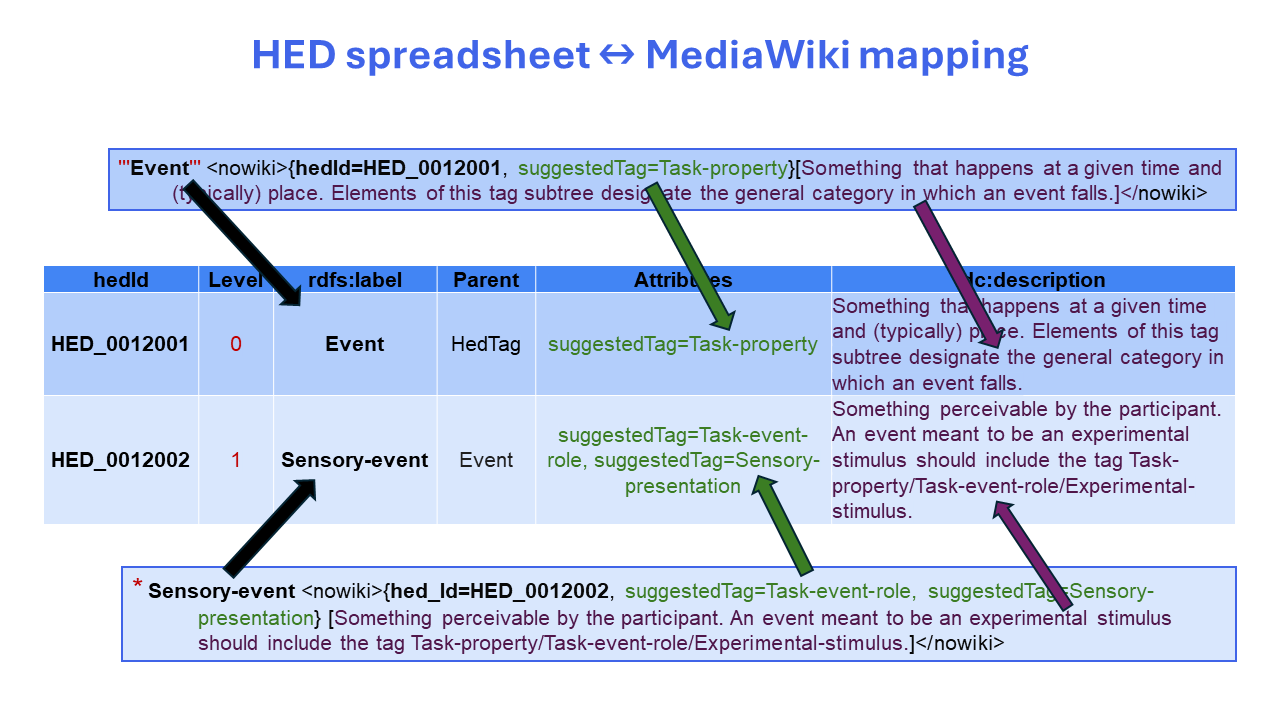
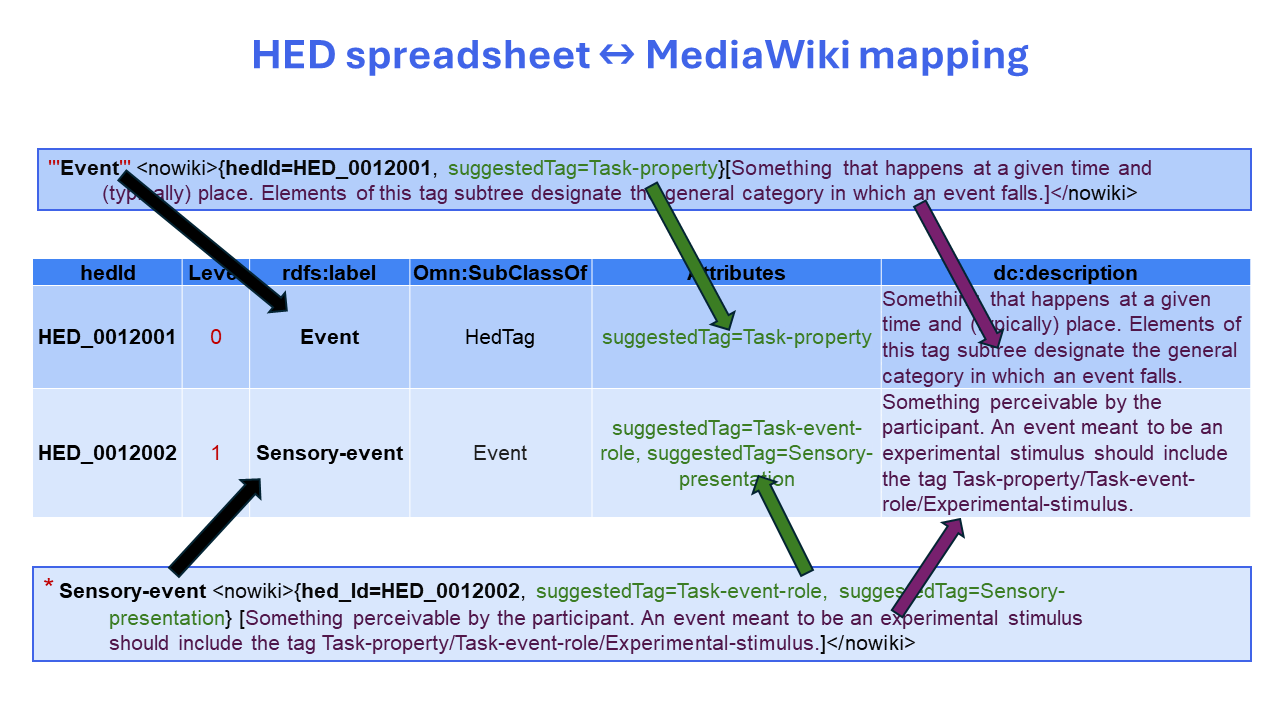
Completed first draft of HED ontology specification

Changed region(s): [[0.0, 0.1833, 1.0, 0.9167], [0.9375, 0.7944, 1.0, 0.9167], [0.2188, 0.4583, 0.3125, 0.4889]]

diff --git a/docs/source/08_HED_ontology.md b/docs/source/08_HED_ontology.md
@@ -6,11 +6,11 @@ This chapter defines the HED ontology and explains the relationship
 between the HED ontology and the HED schema.
 
 The `hed:` prefix is the abbreviation for HED's 
-[**IRI**](https://datatracker.ietf.org/doc/html/rfc3987)(International Resource Identifier) prefix.
+[**IRI**](https://datatracker.ietf.org/doc/html/rfc3987) (International Resource Identifier) prefix.
 Terms with this prefix are associated with a particular schema -- either the standard schema or a library schema.
 Terms with the `heds:` prefix are structural elements common to all HED schemas.
 Both the `hed:` and `heds:` namespaces map to the same PURL (Persistent Uniform Resource Locator)
-as explained in [**8.3 HED global identifiers**](./#83-global-identifiers).
+as explained in [**8.3 HED global identifiers**](#83-hed-global-identifiers).
 
 Terms with the `rdfs:` prefix are from the 
 [**RDF Schema**](https://en.wikipedia.org/wiki/RDF_Schema) (i.e., the Resource Description Framework Schema).
@@ -47,7 +47,7 @@ A second view of HED --- the HED ontology --- provides a mapping between HED sch
 ontologies in order to support semantic analysis and reasoning. 
 
 The following diagram shows the ontology view of HED. 
-The nodes of the HED schema are embedded in the ontology,
+The nodes of the HED schema are embedded in the HED ontology,
 but the view is "term-centric" or "bottom-up" with links from the given term to its
 parent class (yellow arrows) and as well links between the given term and other terms (gray arrows).
 
@@ -92,6 +92,12 @@ Tools access the HED schema in its XML format, but schema developers create
 and update the schema in MediaWiki format, which is easier to read and displays as formatted
 MarkDown on GitHub.
 
+The HED ontology represents the entire HED information space in 
+[**OWL**](https://www.w3.org/OWL/) (Web Ontology Language).
+The HED ontology is available in both [**OWL/RDF**](https://www.w3.org/TR/owl2-mapping-to-rdf/) format
+and [**OWL Manchester**](https://www.w3.org/TR/owl2-manchester-syntax/) format
+but the examples in this specification use OWL Manchester format for readability.
+
 #### 8.1.4.1. Spreadsheet <--> Mediawiki
 
 The HED schema also has a HED spreadsheet representation 
@@ -109,10 +115,10 @@ following table:
 | Spreadsheet<br/>column | Row value | MediaWiki format |
 | ----------- |:------------------:| ------- |
 | **hedId**  | *xxx* | {hedId=*xxx*, ... other attributes in comma separated list} |
-| **level**  | 0 | This row corresponds to a top-level HED tag. Example:  `'''tag'''`.  |  
-| **Level**  | *n* | For level *n* > 0, *n* asterisks appear in front of `tag`.<br/>Example: `* tag` when *n* = 1. Example: `** tag` when *n*=2. |
+| **Level**  | 0 | This row corresponds to a top-level HED tag. **EX:**  `'''tag'''`.  |  
+| **Level**  | *n* | For level *n* > 0, *n* asterisks appear in front of `tag`.<br/>Example: `* tag` when *n* = 1. **EX:** `** tag` when *n*=2. |
 | **rdfs:label**  | *yyy* | The tag's unique name is *yyy*. |
-| **Parent** | *zzz* | The tag's parent tag in the HED hierarchy is *zzz*. |
+| **omn:SubClassOf** | *zzz* | The tag's parent tag in the HED hierarchy is *zzz*. |
 | **Attributes** | *uuu*, *vvv*, ... | List appearing in curly braces: {hedId=*xxx*, *uuu*, *vvv*, ...} |
 | **dc:description** | *www* | The contents of the square braces: [*www*]. |
 
@@ -126,10 +132,19 @@ Tools will assign and validate the `hedId` during the update process.
 
 HED spreadsheets have been expanded to include additional columns to capture all the information 
 contained in the HED ontology as illustrated in the following example.
+Notice that while the spreadsheet always refers to the entities by name (e.g., `rdfs:label`),
+the ontology uses the `hedId`.
 
 ![hed representations](_static/images/HedRepresentations.png)
 
-The mapping of the spreadsheet row and column values to a line in the HED ontology is further explained in the
+Most HED entities (i.e., tags, unit classes, units, unit modifiers, and value classes) map to 
+classes in the HED ontology.
+The HED schema attributes, which describe properties and behavior, are mapped to ontology properties
+as described in [**8.2.3. Schema attributes**](#823-schema-attributes) section.
+The HED schema properties, which describe the schema attributes, determine the type of property mapping
+and are implicitly mapped.
+
+The mapping of the spreadsheet row and column values to a class in the HED ontology is further explained in the
 following table:
 
 
@@ -138,12 +153,13 @@ following table:
 | **hedId**  | *xxx* | `Class: hed:xxx` |
 | **Level**  | *n* | Redundant information -- can be recovered using class hierarchy. |
 | **rdfs:label**  | *yyy* | `rdfs:label yyy` in the `Annotations` section |
-| **Parent** | *zzz* | The tag is either a `SubClassOf` or `EquivalentTo` *zzz*<br/>but *zzz* is identified in the ontology<br/>by **hedId** rather name. |
+| **omn:SubClassOf** | *zzz* | The tag is either a `SubClassOf` or `EquivalentTo` *zzz*<br/>but *zzz* is identified in the ontology<br/>by **hedId** rather name. |
 | **Attributes** | *uuu*, *vvv*, ... | If non-empty, then these appear as restrictions<br/> in the `EquivalentTo`. See [**8.2.3. Schema attributes**|(./#823-schema-attributes). |
 | **dc:description** | *www* | `dc:description www` in the `Annotations` section. |
-|**EquivalentTo** |    | A combination of the information in **Parent** and **Attributes**. |
+|**omn:EquivalentTo** |    | A combination of the information in **omn:SubClassOf** and **Attributes**. |
 
 The next section describes the ontology structure in more detail.
+
 
 ## 8.2. HED schema to ontology
 
@@ -165,25 +181,65 @@ The HED requirement of orthogonality between tags in different top-level subtree
 can be captured in the HED ontology by imposing *disjointness* on the top-level trees,
 but this is not currently being enforced.
 
+The following table summarizes how the HED schema and HED ontology are mapped.
 
-| Schema | Ontology |
-| ------ | -------- |
-| Header | Class with `DataProperty` values for `version`, `library`, `withStandard`, and `merged`. |
-| Tag    | Class using subclassing to represent schema structure.<br/>The parent class appears either in `SubClassOf` or `EquivalentTo`. |
-| Unit class | Class inheriting from `StandardUnitClass` (`HED_0010006`)<br/>if defined in the standard schema. |
-| Unit  | Class inheriting from `StandardUnit` (`HED_0010007`)<br/>if defined in the standard schema.<br/>The class must have `hasUnitClass` some unit class. |
-| Unit modifier | Class inheriting from `StandardUnitModifier` (`HED_0010008`)<br/>if defined in the standard schema. |
-| Value class | Class inheriting from `StandardValueClass` (`HED_0010009`)<br/>if defined in the standard schema. |
-| Attribute | `ObjectProperty`, `DataProperty`, or `AnnotationProperty` depending on range and inheritability.<br>Attributes are defined in the structure ontology. |
-| Property | Implicitly captured in the domains and ranges of the attributes. |
+`````{list-table} HED ontology structure.
+:widths: 15 75
+:header-rows: 1
 
+* - Schema
+  - Ontology
+* - **Header**
+  - Class with `DataProperty` values for:
+    * `version` - (required) semantic version of schema.
+    * `library` - (optional) library name if library.
+    * `withStandard` - (optional) semantic version of library's standard partner).
+    * `merged`- (optional) library has been merged with its standard schema partner.
+* - **Tag**
+  - * Defined in the `schema` section of the HED schema.
+    * Uses subclassing to represent HED schema structure.
+    * Top-level tags extend `HedTag` (`heds:HED_0000005`).
+    * A rooted library tag extends its root in the standard schema.
+    * The parent class appears either in `SubClassOf` or `EquivalentTo`.
+* - **Unit class**
+  - Defined in the `Unit classes` section of the HED schema.
+    * Usually only defined in the standard schema.
+    * Defining schema must define a class extending `HedUnitClass` (`heds:HED_0000006`).
+    * Unit classes in the standard schema are subclasses of `StandardUnitClass` (`hed:HED_0010006`).
+* - **Unit**
+  - * Defined in the `Unit classes` section of HED schema under its unit class.
+    * Usually only defined in the standard schema.
+    * Defining schemas must define a class extending `HedUnit` (`heds:HED_0000007`).
+    * Units in the standard schema are subclasses of `StandardUnit` (`hed:HED_0010007`).
+    * The class must have the `hasUnitClass` (`heds:HED_0000103`) `ObjectProperty`.
+* - **Unit modifier**
+  - * Defined in the `Unit Modifiers` section of the HED schema.
+    * Usually only defined in the standard schema
+    * Defining schemas must define a class extending `HedUnitModifier` (`heds:HED_0000008`).
+    * Unit modifers in the standard schema inherit from `StandardUnitModifier` (`HED_0010008`).
+* - **Value class** 
+  - * Defined in the `Value classes` section of the HED schema.
+    * Usually only defined in the standard schema.
+    * Defining schemas must define a class extending `HedValueClass` (`heds:HED_0000009).
+    * Value classes in the standard schema inherit from `StandardValueClass` (`hed:HED_0010009`).
+* - **Schema attribute**
+  - Maps as a property in the HED ontology:
+    * `ObjectProperty` if `Range` is a class and it is inherited (no `AnnotationProperty`).
+    * `DataProperty` if `Range` is a literal (boolean, numeric, or string) and it is inherited.
+    * `AnnotationProperty` if not inherited.
+* - **Schema property**
+  - * Defined in the `Properties` section of the HED schema.
+    * Property names ending in `Domain` specify classes the attribute can be applied to.
+    * Property names ending in `Range` specify values the property can have.
+    * The `AnnotationProperty` indicates that this schema attribute is not inherited.
+    * Implicitly present in the HED ontology.
+
+`````     
 
 ### 8.2.2. HED Tags
 
-A HED tag is represented in the HED ontology by the `HedTag` class (HED_0000005).
-
 The HED schema hierarchy is captured by subclassing in the HED ontology.
-Top-level tag nodes in the HED schema are direct subclasses of `HedTag`.
+Top-level tag nodes in the HED schema are direct subclasses of the `HedTag` class (`heds:HED_0000005`).
 A descendent of a top-level tag node is a direct subclass of its parent tag node in the HED schema.
 The ontology subclass relationship enforces the HED requirement that each tag in the
 HED schema must satisfy the **is-a** relationship with its parent in the HED schema.
@@ -193,11 +249,11 @@ to illustrate how subclassing is represented in the various HED formats.
 
 #### 8.2.2.1. Mediawiki tag format
 
-The **MediaWiki** representation of a HED tag uses asterisks to mark parentage relationships.
-The parent of a tag prefixed by *X* number of asterisks is the first tag
+The **MediaWiki** representation uses ordering and asterisks to mark parentage relationships.
+In other words, the HED Wikimedia schema tree is given in depth-first search order.
+The parent of a tag prefixed by *X* number of asterisks is a direct child of the first tag
 above it with *X-1* asterisks.
 Top level tags are enclosed by three quotes and have no parent within the schema (i.e., *X* = 0).
-Each top-level tag is the root of a tree of tags that are orthogonal to tags in other trees.
 
 For the example, the `Action` tag is a top-level tag (enclosed in a set of three quotes).
 The `Communicate` tag is a child (subclass) of `Action`.
@@ -206,9 +262,14 @@ The `Communicate` tag is a child (subclass) of `Action`.
 ````{admonition} **Example** HED MediaWiki representation of subclasses.
 
 ```text
-'''Action''' <nowiki>{extensionAllowed, hedId=HED_0012016}[Do something.]</nowiki>
+'''Action''' <nowiki>{hedId=HED_0012016}[Do something.]</nowiki>
 * Communicate <nowiki>{hedId=HED_0012017}[Action conveying knowledge of or about something.]</nowiki>
 ```
+
+In this example `Action` is level 0 (top-level) and `Communicate` is level 1. 
+Mediawiki uses ordering to determine subclasses. 
+Since `Action` is the closest preceding tag whose level is one less than
+that of `Communicate`, so `Action` is the parent tag of `Communicate`.
 
 ````
 The tag's schema attributes are enclosed in curly braces, 
@@ -244,9 +305,9 @@ nesting indicates organizational grouping rather than subclasses.
    </node>
 </node>
 ```
-````
 `Communicate` tag is a subclass (**is-a**) of `Action` because
 its `<node></node>` definition is nested within the  `<node></node>` definition of `Action`.
+````
 
 
 #### 8.2.2.3. OWL format for HED classes
@@ -274,7 +335,7 @@ Class: hed:HED_0012016
     EquivalentTo: 
         heds:HED_0000005
         and (heds:HED_0000102 some hed:HED_0010004)
-        and (heds:HED_0000307 value "true")
+        and (heds:HED_0010307 value "true")
     
 Class: hed:HED_0012017
     Annotations: 
@@ -284,24 +345,24 @@ Class: hed:HED_0012017
     SubClassOf: 
         hed:HED_0012016
 ```
-````
 
-The `Action`  (HED_0012016) class is a top level schema tag and therefore a subclass of `HedTag` (HED_0000005).
+
+The `Action` (`hed:HED_0012016`) class is a top level schema tag and 
+therefore a subclass of `HedTag` (`heds:HED_0000005`).
 The parentage relationship is represented by `EquivalentTo` rather than `SubClassOf`
-because `Action` has the `extensionAllowed` (HED_0000307) data property.
-and the `inHedSchema` (HED_0000102) object property.
-Here `HED_0010004` is the `HedStandardSchema` class, which has
- `version` (HED_0000307) data property value 8.3.0.
-The `HedStandardSchema` class has been declared elsewhere in the ontology.
+because `Action` has the `extensionAllowed` (`hed:HED_0010307`) data property.
+and the `inHedSchema` (`heds:HED_0000102`) object property.
+Here `hed:HED_0010004` is the `HedStandardSchema` class, which has been declared elsewhere in the ontology.
 
-The `Communicate` HED tag (HED_0012017) is a direct child of `Action` as indicated by the `SubClassOf` entry.
+The `Communicate` HED tag (`hed:HED_0012017`) is a direct child of `Action` as indicated by the `SubClassOf` entry.
 Since `Communicate` is a subclass of `Action`, it inherits the `inHedSchema` association
 with the correct version of the standard schema.
-
+````
 
 ### 8.2.3. Schema attributes
 
-The purpose of HED schema attributes is to specify characteristics and/or behavior of schema elements.
+The purpose of HED schema attributes is to specify characteristics and/or behavior of HED schema elements,
+including tags, unit classes, units, unit modifiers, and value classes.
 These attributes map schema elements into values or into other schema elements.
 
 
@@ -317,13 +378,13 @@ The mapping strategy is summarized in the following table.
 | `DataProperty` | HED entity | string, numeric, boolean | Yes | 
 | `ObjectProperty` | HED entity | HED element | Yes | 
 
-`DataProperty` and `ObjectProperty` entities are inherited by subclasses, and reasoners can check their consistency.
-`AnnotationProperty` entities are not inherited by subclasses, and reasoners ignore them.
+`DataProperty` and `ObjectProperty` are inherited by subclasses, and reasoners can check their consistency.
+`AnnotationProperty` is not inherited by subclasses, and reasoners ignore them.
 
 #### 8.2.3.2. Attribute properties
 
 Schema attribute properties appear in the `Properties` section of a HED schema.
-They determine how schema attributes behave as described in the following table.
+Schema attribute properties determine how schema attributes behave and described in the following table.
 
 | Attribute name |   Description |  
 | -------------- | -------------- |
@@ -382,23 +443,30 @@ In the MediaWiki format, schema attributes appear in the `Schema Attributes` sec
 ````{admonition} **Example** HED MediaWiki representation of a schema attribute.
 
 ```text
-* extensionAllowed <nowiki>{tagDomain, boolRange}[Users can add unlimited levels of child nodes under this tag. This tag is propagated to child nodes with the exception of the hashtag placeholders.]</nowiki>
+* extensionAllowed <nowiki>{hedId=HED_0010307,tagDomain, boolRange}[Users can add unlimited levels of child nodes
+                            under this tag. This tag is propagated to child nodes except for 
+                            hashtag placeholders.]</nowiki>
 ```
+Note: this example has line breaks added to fit on the page. Each element in Mediawiki must appear on one line.
 ````
-
+The `extensionAllowed` attribute has a unique `hedId
 #### 8.2.3.5. XML attribute format
 
 
-Schema attribute definitions are nexted in the `<schemaAttributeDefinitions>` section of the schema's XML file.
+Schema attribute definitions are nested in the `<schemaAttributeDefinitions>` section of the schema's XML file.
 The format of an individual schema attribute is shown here.
 ````{admonition} **Example** HED XML representation of a schema attribute.
 
 ```xml
 <schemaAttributeDefinition>
    <name>extensionAllowed</name>
-   <description>Users can add unlimited levels of child nodes under this tag. This tag is propagated to child 
-                nodes with the exception of the hashtag placeholders.
+   <description>Users can add unlimited levels of child nodes under this tag.
+                This tag is propagated to child nodes except hashtag placeholders.
   </description>
+  <property>
+      <name>hedId</name>
+      <value>HED_0010307</value>
+   </property>
    <property>
        <name>tagDomain</name>
    </property>
@@ -417,9 +485,10 @@ The Manchester Owl syntax for schema attributes is similar to that of classes ab
 ````{admonition} **Example** HED Manchester OWL syntax for extensionAllowed.
 
 ```yaml
-DataProperty: heds:HED_0000307
+DataProperty: hed:HED_0010307
     Annotations: 
-        dc:description "A schema attribute indicating that users can add unlimited levels of child nodes under this tag. This tag is propagated to child nodes with the exception of the hashtag placeholders.",
+        dc:description "A schema attribute indicating that users can add unlimited levels of child nodes
+        under this tag. This tag is propagated to child nodes except for hashtag placeholders.",
         rdfs:label "extensionAllowed" 
     Domain: 
         heds:HED_0000005  
@@ -428,6 +497,7 @@ DataProperty: heds:HED_0000307
 
 ```
 ````
+
 Unlike `DataProperty` and `ObjectProperty` attributes, `AnnotationProperty` attributes 
 are not inherited and do not use domain and range specifications.
 These must be handled individual by tools as flagged by the HED schema `annotationProperty` property.
@@ -437,9 +507,10 @@ In the OWL representation, information about the handling should be provided in 
 ````{admonition} **Example** HED Manchester OWL syntax for rooted.
 
 ```yaml
-AnnotationProperty: heds:HED_0000502
+AnnotationProperty: heds:HED_0010502
     Annotations: 
-        dc:description "This top-level library schema node should have a parent which is the indicated node in the partnered standard schema.",
+        dc:description "This top-level library schema node should have a parent which 
+        is the indicated node in the partnered standard schema.",
         rdfs:comment "Maps a HedTag into a HedTag name as a string.",
         rdfs:label "rooted"
 ```
@@ -447,12 +518,12 @@ AnnotationProperty: heds:HED_0000502
 
 ### 8.2.4 Other auxiliary sections
 
-The schema-ontology mapping for HED schema units, unit classes, unit modifiers and value classes is
-similar to that of HED tags. However, each of these auxiliary items should have an `inHedSchema` (HED_0000102)
-restriction to identify which schema it is in.
+The schema-ontology mapping for HED schema units, unit classes, unit modifiers, and value classes is
+similar to that of HED tags. However, each of these auxiliary items should inherit from a 
+superclass tied to the schema in which they are defined. 
 
-A conscious decision was made not to subclass `HedUnit`, `HedUnitClass`, `HedUnitModifier` and `ValueClass`
-so that library schemas could be more transparently merged.
+For example the value classes that are defined in the standard schema should inherit from
+`StandardValueClass` (`hed:HED_0010009`) not directly from `HedValueClass` (`heds:0000009`).
 
 ## 8.3. HED global identifiers
 
@@ -498,9 +569,9 @@ using the range assignments described in the following table.
 | HED_0011400-HED_0011499 | `HedUnitModifier` definitions in the standard schema. |
 | HED_0011500-HED_0011599 | `HedUnitClass` definitions in the standard schema. |
 | HED_0011600-            | `HedUnit` definitions in the standard schema. |
-| HED_0012000-HED_0029999  | `HedTag` entities in the standard schema. |
-| HED_0032000-HED_0039999  | `HedTag` entities in the score schema. |
-| HED_0042000-HED_0049999  | `HedTag` entities in the lang schema. |
+| HED_0012000-HED_0039999  | `HedTag` entities in the standard schema. |
+| HED_0042000-HED_0059999  | `HedTag` entities in the score schema. |
+| HED_0062000-HED_0079999  | `HedTag` entities in the lang schema. |
 
 ### 8.3.3. HED IRIs
 
